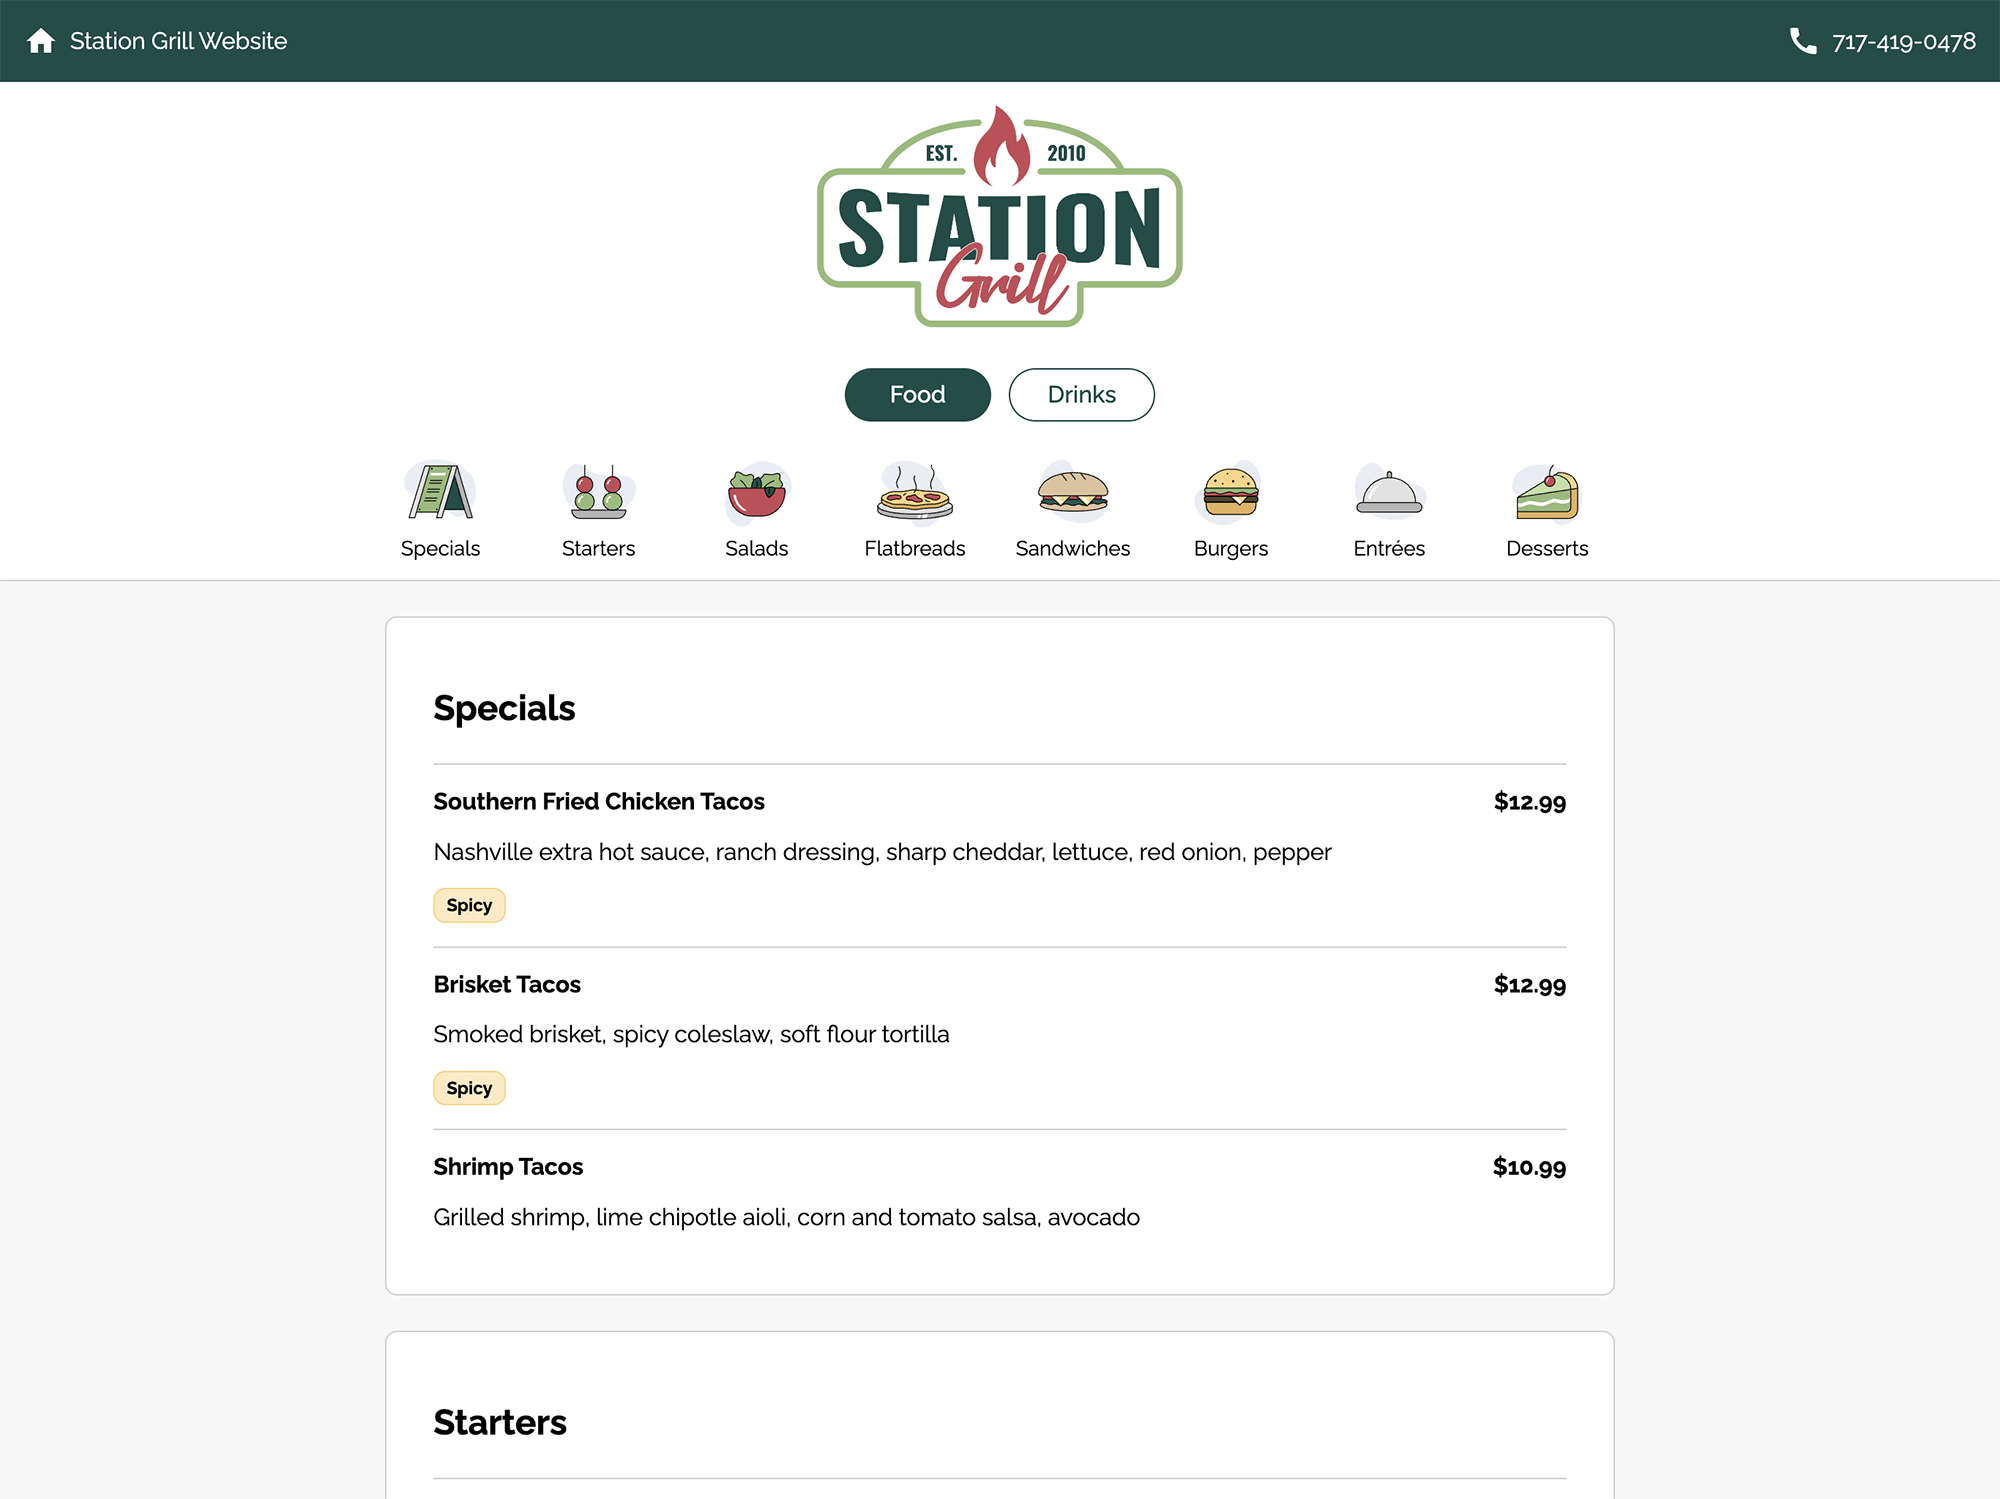
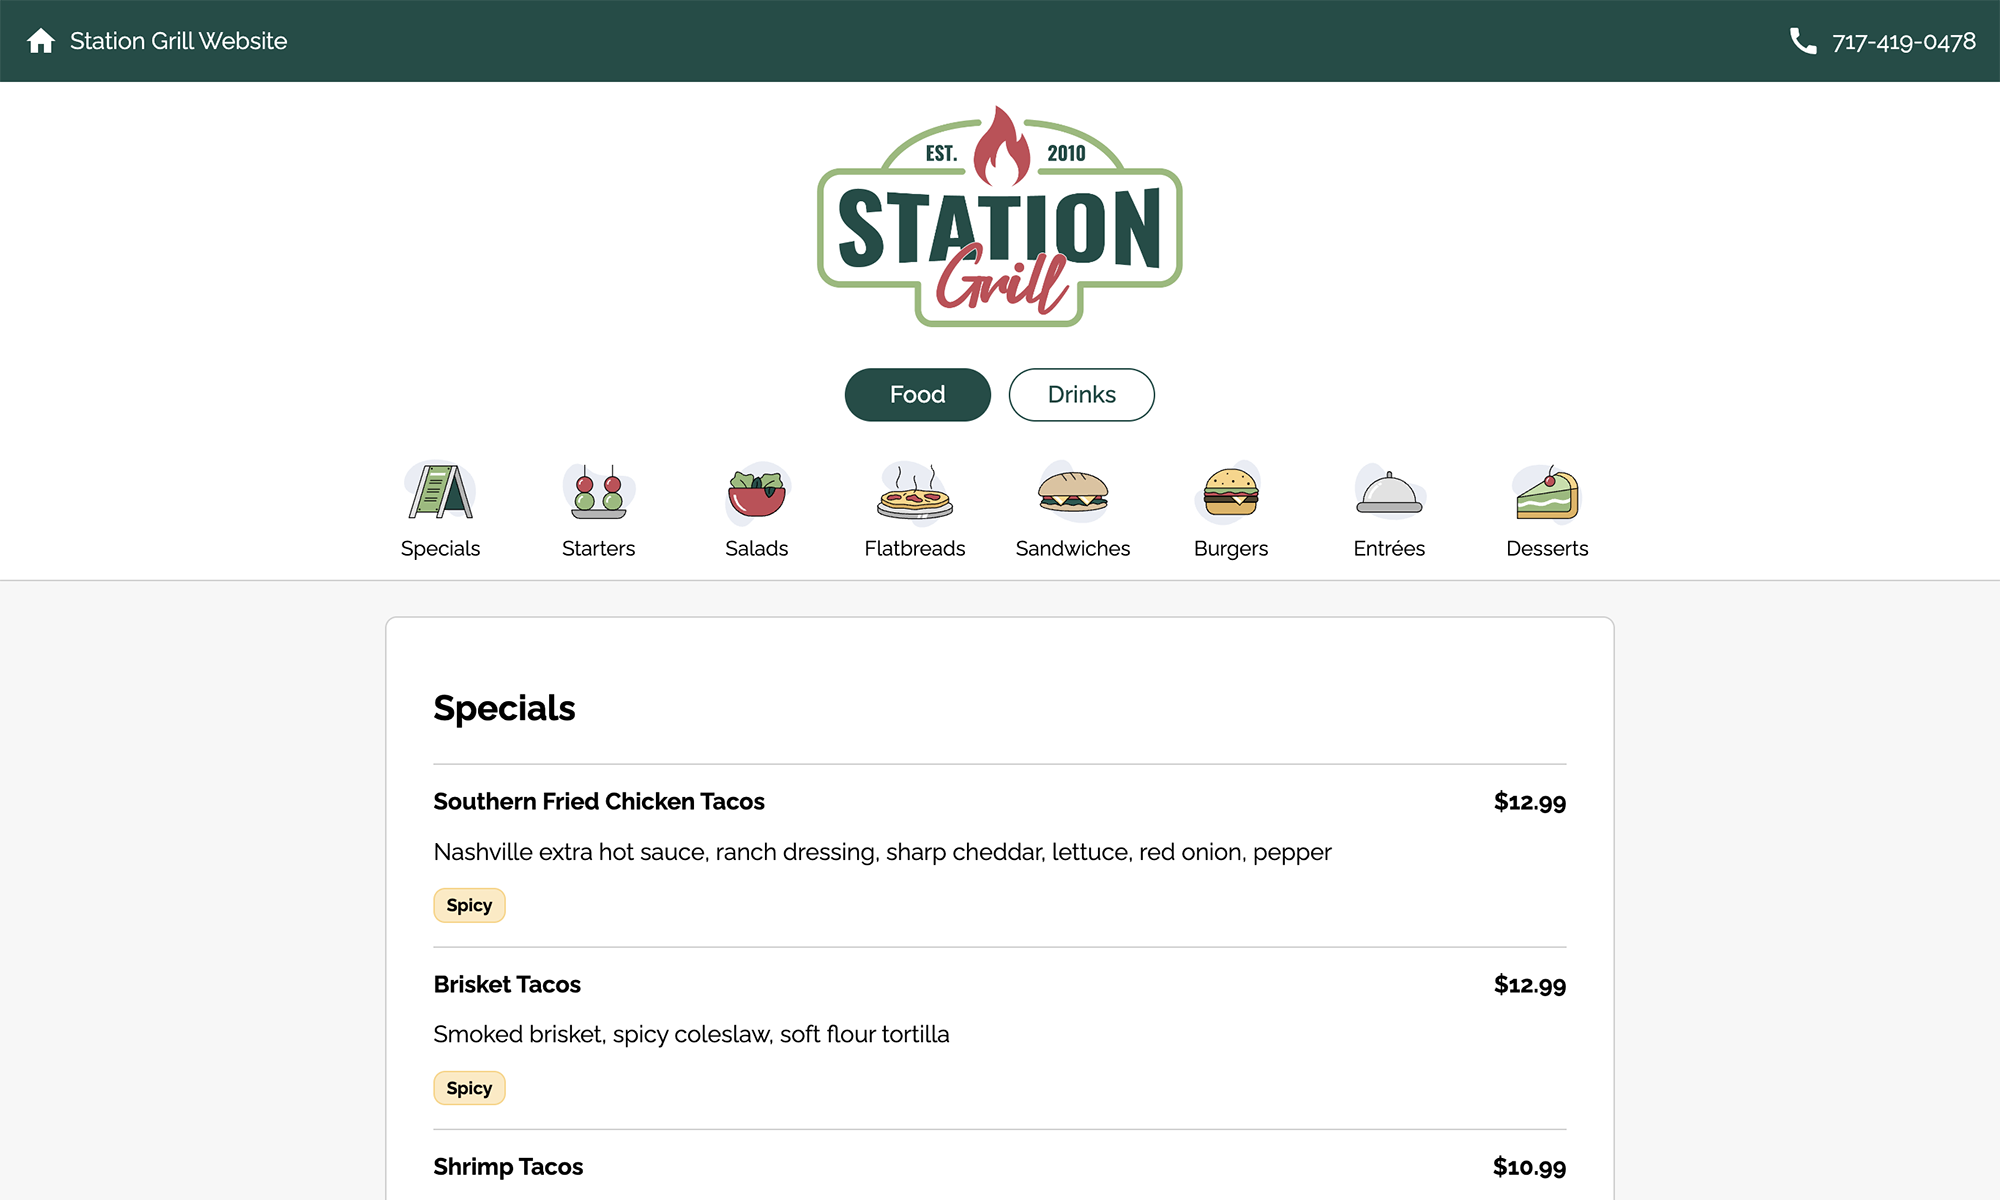
create screenshot component

diff --git a/src/components/Screenshot.js b/src/components/Screenshot.js
@@ -1,0 +1,109 @@
+import React from 'react'
+import styled from 'styled-components'
+import Img from 'gatsby-image'
+
+// style
+import colors from '../styles/colors'
+
+// icons
+import { IoChevronBackOutline } from 'react-icons/io5'
+import { IoChevronForwardOutline } from 'react-icons/io5'
+import { IoSearch } from 'react-icons/io5'
+
+const Screenshot = ({image, caption, url}) => {
+    return (
+        <Figure>
+            <Screen>
+                {/* BROSWSER BAR */}
+                <BrowserBar>
+                    <Dots>
+                        <Dot color='#EF6C5C'></Dot>
+                        <Dot color='#F6BD45'></Dot>
+                        <Dot color='#5CC24E'></Dot>
+                    </Dots>
+                    <Buttons>
+                        <IoChevronBackOutline />
+                        <IoChevronForwardOutline />
+                    </Buttons>
+                    <Searchbar>
+                        <IoSearch />
+                        {url}
+                    </Searchbar>
+                </BrowserBar>
+
+                {/* SCREENSHOT IMAGE */}
+                <Img fluid={image} />
+            </Screen>
+
+            {caption && <Caption>{caption}</Caption>}
+
+        </Figure>
+    )
+}
+
+const Figure = styled.figure`
+    display: grid;
+    gap: 16px;
+
+    margin-top: 1.5em;
+`
+
+const Screen = styled.div`
+    border-radius: 12px;
+    overflow: hidden;
+    box-shadow: 0 0 38px rgba(0,0,0,0.30), 0 0 12px rgba(0,0,0,0.22);
+`
+
+const BrowserBar = styled.div`
+    height: 40px;
+    background-color: #353435;
+    border-bottom: 1px solid #5E5D5E;
+
+    display: grid;
+    grid-template-columns: auto auto 1fr;
+    align-items: center;
+    gap: 16px;
+
+    padding: 0 16px;
+`
+
+const Dots = styled.div`
+    display: flex;
+    gap: 7px;
+`
+
+const Dot = styled.div`
+    height: 10px;
+    width: 10px;
+    border-radius: 50%;
+    background-color: ${props => props.color};
+`
+
+const Buttons = styled.div`
+    display: flex;
+    gap: 8px;
+    font-size: 20px;
+    color: rgba(255,255,255,.3);
+`
+
+const Searchbar = styled.div`
+    display: flex;
+    align-items: center;
+    gap: 8px;
+
+    padding: 0 8px;
+
+    height: 25px;
+    background-color: #282728;
+    border-radius: 4px;
+
+    font-size: 0.75rem;
+    color: rgba(255,255,255,.5);
+`
+
+const Caption = styled.figcaption`
+    font-size: .875rem;
+    color: gray;
+`
+
+export default Screenshot

diff --git a/src/templates/project.js b/src/templates/project.js
@@ -8,6 +8,7 @@ import ProjectHeader from '../components/ProjectHeader'
 import { Container, Padding, ContentStack } from "../components/Layout";
 import { ContainedButton } from '../components/Buttons';
 import Ipad from '../components/devices/Ipad'
+import Screenshot from '../components/Screenshot'
 
 // styles
 import { Eyebrow } from "../components/Fonts";
@@ -17,7 +18,7 @@ import colors from "../styles/colors";
 import ProjectImages from '../components/ProjectImages'
 import Callout from '../components/Callout'
 import Backlog from '../components/Backlog'
-const shortcodes = { ProjectImages, Callout, Backlog }
+const shortcodes = { ProjectImages, Callout, Backlog, Screenshot }
 
 const ProjectLayout = ({ children, pageContext, data }) => {
     const frontmatter = pageContext.frontmatter
@@ -30,7 +31,7 @@ const ProjectLayout = ({ children, pageContext, data }) => {
                 madeWith={frontmatter.madeWith}
                 color={frontmatter.color}
                 textColor={frontmatter.textColor}
-                mockup={<Ipad url={frontmatter.demo} screenshot={data.mainImage.edges[0].node.childImageSharp.fluid}/>}
+                mockup={<Screenshot url={frontmatter.demo} image={data.mainImage.edges[0].node.childImageSharp.fluid}/>}
                 demo={frontmatter.demo}
                 code={frontmatter.code}
             />
